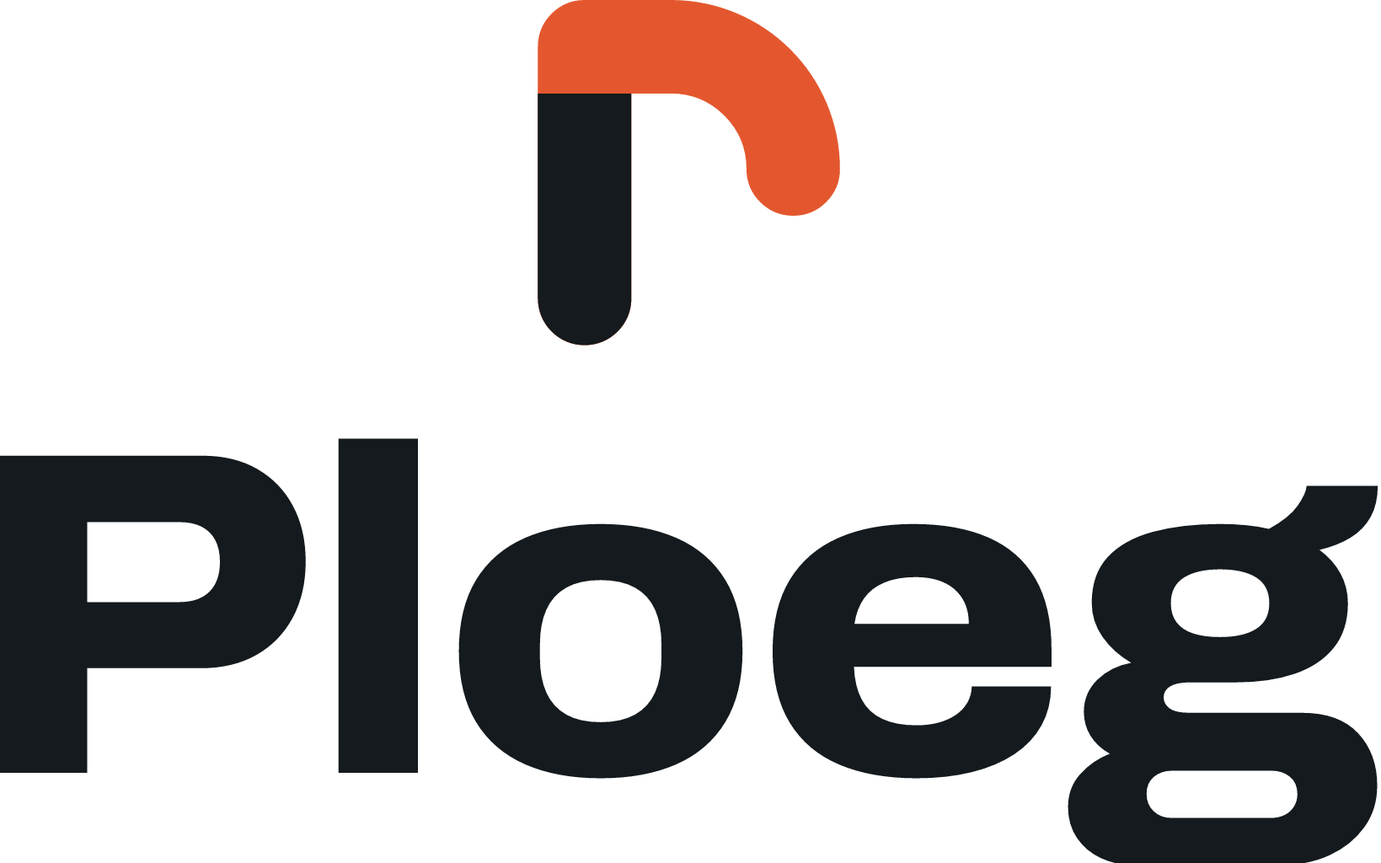
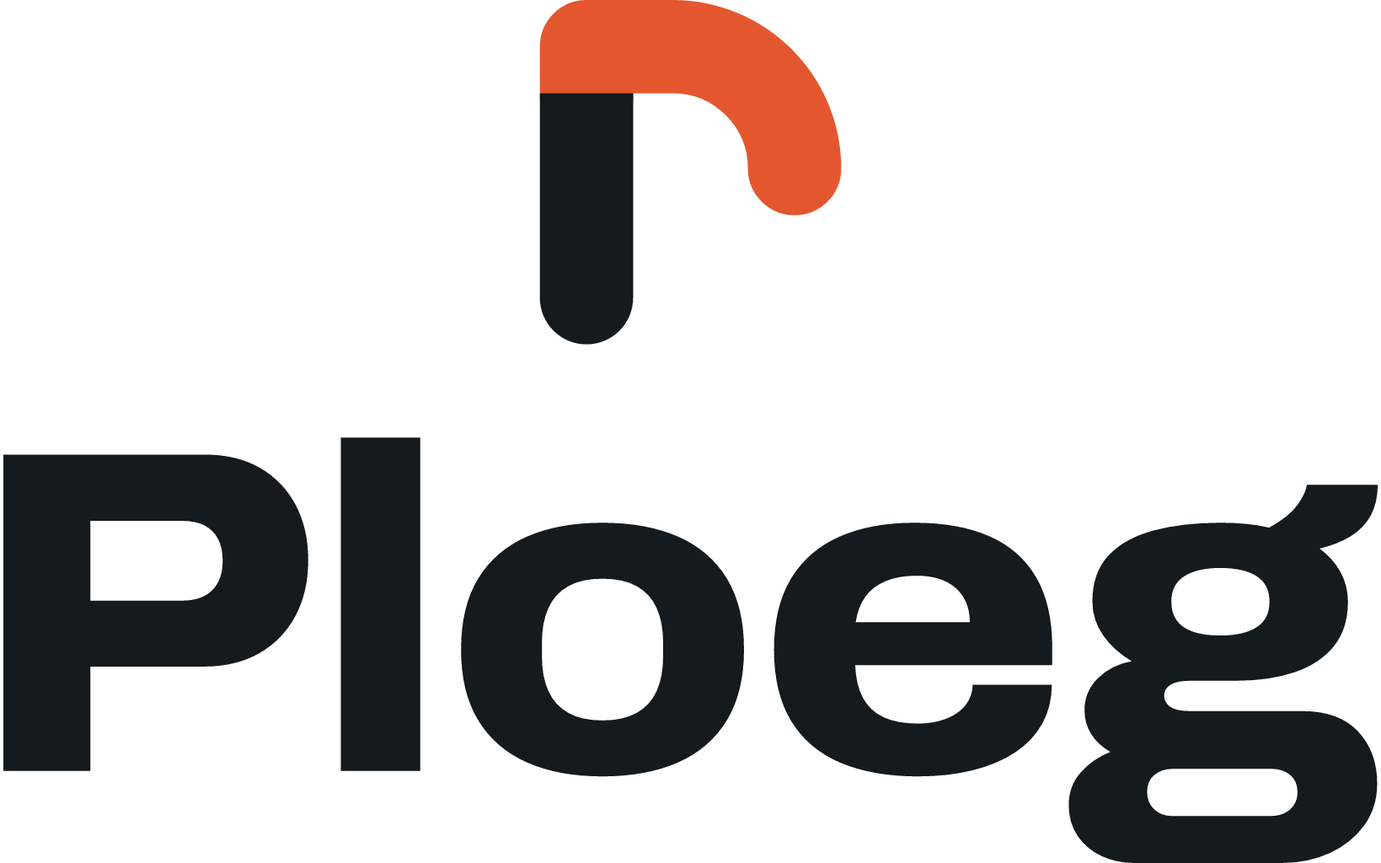
fix(brand): clip the Klei under the steel so it can't bleed through the edges
The two-tone build draws the full silhouette in Klei and lays the steel
over it, so hidden orange sat flush against the steel's outline. Wherever
that outline is anti-aliased — the bottom cap in the pixel-aligned
exports, the entire stem at arbitrary render sizes — edge pixels mixed
steel with the orange underneath, an orange zweem on the silhouette.

An evenodd clipPath on the Klei stroke now removes everything under the
steel except a one-unit strip below the naad, which keeps the seam
covered without letting hidden orange reach any anti-aliased edge. Same
knip on the favicon and tile geometries; geometry itself is untouched.
Applied to all nine two-tone SVGs and the marks inlined in merkgids,
documented in the construction notes, PNGs re-rendered with resvg.

Verified by pixel scan: zero mixed pixels off the naad in every export,
including odd-size renders where nothing is pixel-aligned.

diff --git a/docs/brand/merkgids.html b/docs/brand/merkgids.html
@@ -155,6 +155,11 @@ button:focus-visible { outline:2px solid var(--accent); outline-offset:2px; }
 </style>
 </head>
 <body>
+<svg width="0" height="0" style="position:absolute" aria-hidden="true" focusable="false"><defs>
+<clipPath id="knip-mark"><path clip-rule="evenodd" d="M-8 -8H72V72H-8ZM10 22H25V57H10Z"/></clipPath>
+<clipPath id="knip-favicon"><path clip-rule="evenodd" d="M-8 -8H72V72H-8ZM7 19H23V61H7Z"/></clipPath>
+<clipPath id="knip-tegel"><path clip-rule="evenodd" d="M-8 -8H72V72H-8ZM13 24H26V53H13Z"/></clipPath>
+</defs></svg>
 <div class="wrap">
   <header class="mast">
     <p class="eyebrow">Ploeg · merkidentiteit · v1</p>
@@ -163,14 +168,14 @@ button:focus-visible { outline:2px solid var(--accent); outline-offset:2px; }
     <div class="hero">
       <div class="lite"><svg xmlns="http://www.w3.org/2000/svg" viewBox="0 0 246.55 60.84" fill="none" role="img" aria-hidden="true" focusable="false">
 <g transform="translate(-11 -8)">
-<path d="M17.5 49.5V14.5H29.5A17 17 0 0 1 46.5 31.5" stroke="#E4572E" stroke-width="13" stroke-linecap="round" stroke-linejoin="round" fill="none"/>
+<path d="M17.5 49.5V14.5H29.5A17 17 0 0 1 46.5 31.5" stroke="#E4572E" stroke-width="13" stroke-linecap="round" stroke-linejoin="round" fill="none" clip-path="url(#knip-mark)"/>
 <path d="M11 21H24V49.5A6.5 6.5 0 0 1 11 49.5Z" fill="#141A1D"/>
 </g>
 <g transform="translate(55.00 48.00) scale(0.44000)"><path d="M0 0V-100.19H63.98Q74.04 -100.19 81.33 -95.97Q88.63 -91.75 92.61 -84.25Q96.59 -76.75 96.59 -66.75Q96.59 -56.65 92.52 -49.05Q88.44 -41.44 81.04 -37.24Q73.64 -33.04 63.59 -33.04H27.57V0ZM27.57 -53.93H56.61Q62.9 -53.93 66.19 -57.23Q69.49 -60.53 69.49 -66.6Q69.49 -70.72 68.03 -73.49Q66.58 -76.27 63.74 -77.74Q60.9 -79.21 56.61 -79.21H27.57ZM106.94 0V-105.58H132.05V0ZM189.78 1.75Q175.93 1.75 165.89 -2.67Q155.85 -7.09 150.42 -16.02Q144.99 -24.95 144.99 -38.44Q144.99 -52.05 150.42 -60.94Q155.85 -69.83 165.89 -74.22Q175.93 -78.61 189.78 -78.61Q203.68 -78.61 213.72 -74.22Q223.76 -69.83 229.19 -60.94Q234.62 -52.05 234.62 -38.44Q234.62 -24.95 229.19 -16.02Q223.76 -7.09 213.72 -2.67Q203.68 1.75 189.78 1.75ZM189.78 -15.98Q196.4 -15.98 200.67 -18.39Q204.94 -20.8 206.97 -25.33Q209 -29.87 209 -36.2V-40.64Q209 -47 206.97 -51.54Q204.94 -56.09 200.67 -58.49Q196.4 -60.88 189.78 -60.88Q183.16 -60.88 178.91 -58.49Q174.67 -56.09 172.64 -51.54Q170.61 -47 170.61 -40.64V-36.2Q170.61 -29.87 172.64 -25.33Q174.67 -20.8 178.91 -18.39Q183.16 -15.98 189.78 -15.98ZM289.63 1.75Q275.47 1.75 265.26 -2.54Q255.06 -6.82 249.59 -15.73Q244.12 -24.64 244.12 -38.42Q244.12 -52.03 249.52 -60.93Q254.92 -69.83 264.89 -74.22Q274.87 -78.61 288.61 -78.61Q302.57 -78.61 312.32 -74.34Q322.07 -70.07 327.16 -61.32Q332.25 -52.58 332.25 -39.03V-33.49H269.84Q270.06 -27.35 272.25 -23.2Q274.43 -19.05 278.78 -17.02Q283.13 -14.99 289.65 -14.99Q293.39 -14.99 296.55 -15.84Q299.7 -16.69 302.03 -18.29Q304.36 -19.88 305.67 -22.16Q306.98 -24.43 307.06 -27.28H332.11Q332.11 -20.4 329.1 -14.98Q326.1 -9.56 320.5 -5.85Q314.9 -2.13 307.07 -0.19Q299.25 1.75 289.63 1.75ZM270 -47.08H306.13Q306.13 -50.7 304.93 -53.44Q303.73 -56.18 301.52 -58.06Q299.3 -59.95 296.22 -60.89Q293.14 -61.83 289.36 -61.83Q283.49 -61.83 279.38 -60.09Q275.27 -58.35 272.98 -55.06Q270.68 -51.77 270 -47.08ZM358 29.17Q352.56 29.17 347.86 26.98Q343.15 24.79 340.31 20.64Q337.47 16.49 337.47 10.79Q337.47 4.71 341.34 0.41Q345.2 -3.89 350.67 -6.01Q346.71 -8.23 344.59 -11.65Q342.47 -15.07 342.47 -19.23Q342.47 -25.2 346.75 -29.4Q351.03 -33.59 357.43 -34.75Q351.87 -37.98 348.41 -42.88Q344.96 -47.77 344.96 -53.67Q344.96 -62.75 350.06 -68.22Q355.16 -73.68 364.31 -76.14Q373.46 -78.61 385.49 -78.61Q390.04 -78.61 393.87 -78.22Q397.71 -77.84 400.94 -77.06Q407.39 -80.57 410.04 -84.41Q412.7 -88.25 412.87 -90.63H435.35Q435.32 -84.86 433.1 -80.85Q430.87 -76.83 426.77 -74.31Q422.67 -71.79 416.93 -70.43Q421.21 -67.28 423.56 -62.98Q425.91 -58.67 425.91 -53.56Q425.91 -45.04 421.45 -39.5Q416.99 -33.96 409.06 -31.26Q401.13 -28.56 390.63 -28.56H376.06Q371.75 -28.56 369.72 -27.28Q367.68 -26.01 367.68 -23.84Q367.68 -21.78 369.52 -20.36Q371.36 -18.94 376.03 -18.94H411.46Q423.13 -18.94 429.15 -12.47Q435.17 -6 435.17 4.04Q435.17 11.61 431.08 17.25Q427 22.89 420.18 26.03Q413.35 29.17 405.03 29.17ZM370.19 14.29H401.57Q403.95 14.29 405.84 13.38Q407.72 12.47 408.83 10.73Q409.94 9 409.94 6.76Q409.94 3.2 407.59 1.28Q405.23 -0.64 401.89 -0.64H370.32Q366.91 -0.64 364.6 1.29Q362.29 3.22 362.29 6.65Q362.29 10.08 364.54 12.18Q366.79 14.29 370.19 14.29ZM385.46 -42.88Q392.91 -42.88 396.98 -45.5Q401.06 -48.11 401.06 -53.59Q401.06 -59.07 396.98 -61.68Q392.91 -64.28 385.46 -64.28Q378.24 -64.28 374.1 -61.68Q369.96 -59.07 369.96 -53.59Q369.96 -49.95 371.76 -47.54Q373.57 -45.13 377.04 -44.01Q380.51 -42.88 385.46 -42.88Z" fill="#141A1D"/></g>
 </svg></div>
       <div class="dark"><svg xmlns="http://www.w3.org/2000/svg" viewBox="0 0 246.55 60.84" fill="none" role="img" aria-hidden="true" focusable="false">
 <g transform="translate(-11 -8)">
-<path d="M17.5 49.5V14.5H29.5A17 17 0 0 1 46.5 31.5" stroke="#E4572E" stroke-width="13" stroke-linecap="round" stroke-linejoin="round" fill="none"/>
+<path d="M17.5 49.5V14.5H29.5A17 17 0 0 1 46.5 31.5" stroke="#E4572E" stroke-width="13" stroke-linecap="round" stroke-linejoin="round" fill="none" clip-path="url(#knip-mark)"/>
 <path d="M11 21H24V49.5A6.5 6.5 0 0 1 11 49.5Z" fill="#FFFFFF"/>
 </g>
 <g transform="translate(55.00 48.00) scale(0.44000)"><path d="M0 0V-100.19H63.98Q74.04 -100.19 81.33 -95.97Q88.63 -91.75 92.61 -84.25Q96.59 -76.75 96.59 -66.75Q96.59 -56.65 92.52 -49.05Q88.44 -41.44 81.04 -37.24Q73.64 -33.04 63.59 -33.04H27.57V0ZM27.57 -53.93H56.61Q62.9 -53.93 66.19 -57.23Q69.49 -60.53 69.49 -66.6Q69.49 -70.72 68.03 -73.49Q66.58 -76.27 63.74 -77.74Q60.9 -79.21 56.61 -79.21H27.57ZM106.94 0V-105.58H132.05V0ZM189.78 1.75Q175.93 1.75 165.89 -2.67Q155.85 -7.09 150.42 -16.02Q144.99 -24.95 144.99 -38.44Q144.99 -52.05 150.42 -60.94Q155.85 -69.83 165.89 -74.22Q175.93 -78.61 189.78 -78.61Q203.68 -78.61 213.72 -74.22Q223.76 -69.83 229.19 -60.94Q234.62 -52.05 234.62 -38.44Q234.62 -24.95 229.19 -16.02Q223.76 -7.09 213.72 -2.67Q203.68 1.75 189.78 1.75ZM189.78 -15.98Q196.4 -15.98 200.67 -18.39Q204.94 -20.8 206.97 -25.33Q209 -29.87 209 -36.2V-40.64Q209 -47 206.97 -51.54Q204.94 -56.09 200.67 -58.49Q196.4 -60.88 189.78 -60.88Q183.16 -60.88 178.91 -58.49Q174.67 -56.09 172.64 -51.54Q170.61 -47 170.61 -40.64V-36.2Q170.61 -29.87 172.64 -25.33Q174.67 -20.8 178.91 -18.39Q183.16 -15.98 189.78 -15.98ZM289.63 1.75Q275.47 1.75 265.26 -2.54Q255.06 -6.82 249.59 -15.73Q244.12 -24.64 244.12 -38.42Q244.12 -52.03 249.52 -60.93Q254.92 -69.83 264.89 -74.22Q274.87 -78.61 288.61 -78.61Q302.57 -78.61 312.32 -74.34Q322.07 -70.07 327.16 -61.32Q332.25 -52.58 332.25 -39.03V-33.49H269.84Q270.06 -27.35 272.25 -23.2Q274.43 -19.05 278.78 -17.02Q283.13 -14.99 289.65 -14.99Q293.39 -14.99 296.55 -15.84Q299.7 -16.69 302.03 -18.29Q304.36 -19.88 305.67 -22.16Q306.98 -24.43 307.06 -27.28H332.11Q332.11 -20.4 329.1 -14.98Q326.1 -9.56 320.5 -5.85Q314.9 -2.13 307.07 -0.19Q299.25 1.75 289.63 1.75ZM270 -47.08H306.13Q306.13 -50.7 304.93 -53.44Q303.73 -56.18 301.52 -58.06Q299.3 -59.95 296.22 -60.89Q293.14 -61.83 289.36 -61.83Q283.49 -61.83 279.38 -60.09Q275.27 -58.35 272.98 -55.06Q270.68 -51.77 270 -47.08ZM358 29.17Q352.56 29.17 347.86 26.98Q343.15 24.79 340.31 20.64Q337.47 16.49 337.47 10.79Q337.47 4.71 341.34 0.41Q345.2 -3.89 350.67 -6.01Q346.71 -8.23 344.59 -11.65Q342.47 -15.07 342.47 -19.23Q342.47 -25.2 346.75 -29.4Q351.03 -33.59 357.43 -34.75Q351.87 -37.98 348.41 -42.88Q344.96 -47.77 344.96 -53.67Q344.96 -62.75 350.06 -68.22Q355.16 -73.68 364.31 -76.14Q373.46 -78.61 385.49 -78.61Q390.04 -78.61 393.87 -78.22Q397.71 -77.84 400.94 -77.06Q407.39 -80.57 410.04 -84.41Q412.7 -88.25 412.87 -90.63H435.35Q435.32 -84.86 433.1 -80.85Q430.87 -76.83 426.77 -74.31Q422.67 -71.79 416.93 -70.43Q421.21 -67.28 423.56 -62.98Q425.91 -58.67 425.91 -53.56Q425.91 -45.04 421.45 -39.5Q416.99 -33.96 409.06 -31.26Q401.13 -28.56 390.63 -28.56H376.06Q371.75 -28.56 369.72 -27.28Q367.68 -26.01 367.68 -23.84Q367.68 -21.78 369.52 -20.36Q371.36 -18.94 376.03 -18.94H411.46Q423.13 -18.94 429.15 -12.47Q435.17 -6 435.17 4.04Q435.17 11.61 431.08 17.25Q427 22.89 420.18 26.03Q413.35 29.17 405.03 29.17ZM370.19 14.29H401.57Q403.95 14.29 405.84 13.38Q407.72 12.47 408.83 10.73Q409.94 9 409.94 6.76Q409.94 3.2 407.59 1.28Q405.23 -0.64 401.89 -0.64H370.32Q366.91 -0.64 364.6 1.29Q362.29 3.22 362.29 6.65Q362.29 10.08 364.54 12.18Q366.79 14.29 370.19 14.29ZM385.46 -42.88Q392.91 -42.88 396.98 -45.5Q401.06 -48.11 401.06 -53.59Q401.06 -59.07 396.98 -61.68Q392.91 -64.28 385.46 -64.28Q378.24 -64.28 374.1 -61.68Q369.96 -59.07 369.96 -53.59Q369.96 -49.95 371.76 -47.54Q373.57 -45.13 377.04 -44.01Q380.51 -42.88 385.46 -42.88Z" fill="#FFFFFF"/></g>
@@ -184,7 +189,7 @@ button:focus-visible { outline:2px solid var(--accent); outline-offset:2px; }
       <p>De vorm is opzettelijk <b>open</b>: hij sluit niet terug naar de steel zoals een echte P. Daarmee blijft hij een werktuig en wordt hij nooit helemaal een letter. Alles is afgeleid van één maat — de streekbreedte.</p></div>
     <div class="markgrid">
       <div class="panel"><h3>Master</h3><svg class="big" xmlns="http://www.w3.org/2000/svg" viewBox="0 0 64 64" fill="none" role="img" aria-hidden="true" focusable="false">
-<path d="M17.5 49.5V14.5H29.5A17 17 0 0 1 46.5 31.5" stroke="#E4572E" stroke-width="13" stroke-linecap="round" stroke-linejoin="round" fill="none"/>
+<path d="M17.5 49.5V14.5H29.5A17 17 0 0 1 46.5 31.5" stroke="#E4572E" stroke-width="13" stroke-linecap="round" stroke-linejoin="round" fill="none" clip-path="url(#knip-mark)"/>
 <path d="M11 21H24V49.5A6.5 6.5 0 0 1 11 49.5Z" fill="#141A1D"/>
 </svg></div>
       <div class="panel"><h3>Constructie</h3><svg viewBox="0 0 64 64" aria-hidden="true" class="draw">
@@ -227,7 +232,9 @@ button:focus-visible { outline:2px solid var(--accent); outline-offset:2px; }
         <p style="font-size:14.5px;margin:0 0 11px"><b>42 × 48.</b> Optisch vierkant zou te breed staan; dit is de verhouding van een kapitaal.</p>
         <p style="font-size:14.5px;margin:0"><b>Binnenstraal 10.5.</b> Ruim genoeg dat de tegenvorm niet dichtslibt op 16 px.</p>
         <pre>silhouet  M17.5 49.5V14.5H29.5A17 17 0 0 1 46.5 31.5
-steel     M11 21H24V49.5A6.5 6.5 0 0 1 11 49.5Z</pre>
+steel     M11 21H24V49.5A6.5 6.5 0 0 1 11 49.5Z
+knip      clipPath op het silhouet, evenodd:
+          M-8 -8H72V72H-8Z M10 22H25V57H10Z</pre>
       </div>
     </div>
     <div class="panel" style="margin-top:16px">
@@ -241,7 +248,7 @@ steel     M11 21H24V49.5A6.5 6.5 0 0 1 11 49.5Z</pre>
     <text x="0" y="70" font-family="ui-monospace,monospace" font-size="5"
           fill="#C0431F">fout — gebogen naad</text>
   </g>
-  <g transform="translate(80 2)"><path d="M17.5 49.5V14.5H29.5A17 17 0 0 1 46.5 31.5" stroke="#E4572E" stroke-width="13" stroke-linecap="round" stroke-linejoin="round" fill="none"/><path d="M11 21H24V49.5A6.5 6.5 0 0 1 11 49.5Z" fill="currentColor"/>
+  <g transform="translate(80 2)"><path d="M17.5 49.5V14.5H29.5A17 17 0 0 1 46.5 31.5" stroke="#E4572E" stroke-width="13" stroke-linecap="round" stroke-linejoin="round" fill="none" clip-path="url(#knip-mark)"/><path d="M11 21H24V49.5A6.5 6.5 0 0 1 11 49.5Z" fill="currentColor"/>
     <text x="0" y="70" font-family="ui-monospace,monospace" font-size="5"
           fill="currentColor" opacity=".65">goed — naad recht</text>
   </g>
@@ -249,6 +256,7 @@ steel     M11 21H24V49.5A6.5 6.5 0 0 1 11 49.5Z</pre>
         <div>
           <p style="font-size:15px;margin:0 0 12px">Twee streken met een ronde kap op hetzelfde beginpunt geven een <b>gebogen kleurnaad</b>: links zwiept het accent in een boog naar beneden tot (11, 14.5), rechts eindigt het vlak op y=21. Dat leest als een pil die op de steel ligt, niet als één werktuig.</p>
           <p style="font-size:15px;margin:0 0 12px">De fix: trek het <b>hele silhouet</b> in accent en leg de steel er als gevuld vlak overheen. De naad is dan een rechte lijn op y=21, van x=11 tot x=24, en het buitensilhouet komt uit één pad.</p>
+          <p style="font-size:15px;margin:0 0 12px">Eén gevolg vraagt een tegenmaatregel: de Klei die onder de steel doorloopt schemert bij het renderen door elke rand van de steel heen — anti-aliasing mengt randpixels met wat eronder ligt, en dat geeft een oranje zweem langs de steel. Daarom knipt een <code style="font-family:var(--mono);font-size:12.5px">clipPath</code> het verborgen deel van het silhouet weg, op een strook van één eenheid onder de naad na, die de naad zelf blijft afdekken.</p>
           <p style="font-size:14px;margin:0;color:var(--zacht)"><code style="font-family:var(--mono);font-size:12.5px">fill="none"</code> staat expliciet op elk stroke-pad, niet alleen op het <code style="font-family:var(--mono);font-size:12.5px">&lt;svg&gt;</code>. Wie een pad los kopieert krijgt anders een zwart vlak.</p>
         </div>
       </div>
@@ -387,39 +395,39 @@ steel     M11 21H24V49.5A6.5 6.5 0 0 1 11 49.5Z</pre>
     <div class="locks">
       <div class="lockcell on-kalk"><div><svg xmlns="http://www.w3.org/2000/svg" viewBox="0 0 246.55 60.84" fill="none" role="img" aria-hidden="true" focusable="false">
 <g transform="translate(-11 -8)">
-<path d="M17.5 49.5V14.5H29.5A17 17 0 0 1 46.5 31.5" stroke="#E4572E" stroke-width="13" stroke-linecap="round" stroke-linejoin="round" fill="none"/>
+<path d="M17.5 49.5V14.5H29.5A17 17 0 0 1 46.5 31.5" stroke="#E4572E" stroke-width="13" stroke-linecap="round" stroke-linejoin="round" fill="none" clip-path="url(#knip-mark)"/>
 <path d="M11 21H24V49.5A6.5 6.5 0 0 1 11 49.5Z" fill="#141A1D"/>
 </g>
 <g transform="translate(55.00 48.00) scale(0.44000)"><path d="M0 0V-100.19H63.98Q74.04 -100.19 81.33 -95.97Q88.63 -91.75 92.61 -84.25Q96.59 -76.75 96.59 -66.75Q96.59 -56.65 92.52 -49.05Q88.44 -41.44 81.04 -37.24Q73.64 -33.04 63.59 -33.04H27.57V0ZM27.57 -53.93H56.61Q62.9 -53.93 66.19 -57.23Q69.49 -60.53 69.49 -66.6Q69.49 -70.72 68.03 -73.49Q66.58 -76.27 63.74 -77.74Q60.9 -79.21 56.61 -79.21H27.57ZM106.94 0V-105.58H132.05V0ZM189.78 1.75Q175.93 1.75 165.89 -2.67Q155.85 -7.09 150.42 -16.02Q144.99 -24.95 144.99 -38.44Q144.99 -52.05 150.42 -60.94Q155.85 -69.83 165.89 -74.22Q175.93 -78.61 189.78 -78.61Q203.68 -78.61 213.72 -74.22Q223.76 -69.83 229.19 -60.94Q234.62 -52.05 234.62 -38.44Q234.62 -24.95 229.19 -16.02Q223.76 -7.09 213.72 -2.67Q203.68 1.75 189.78 1.75ZM189.78 -15.98Q196.4 -15.98 200.67 -18.39Q204.94 -20.8 206.97 -25.33Q209 -29.87 209 -36.2V-40.64Q209 -47 206.97 -51.54Q204.94 -56.09 200.67 -58.49Q196.4 -60.88 189.78 -60.88Q183.16 -60.88 178.91 -58.49Q174.67 -56.09 172.64 -51.54Q170.61 -47 170.61 -40.64V-36.2Q170.61 -29.87 172.64 -25.33Q174.67 -20.8 178.91 -18.39Q183.16 -15.98 189.78 -15.98ZM289.63 1.75Q275.47 1.75 265.26 -2.54Q255.06 -6.82 249.59 -15.73Q244.12 -24.64 244.12 -38.42Q244.12 -52.03 249.52 -60.93Q254.92 -69.83 264.89 -74.22Q274.87 -78.61 288.61 -78.61Q302.57 -78.61 312.32 -74.34Q322.07 -70.07 327.16 -61.32Q332.25 -52.58 332.25 -39.03V-33.49H269.84Q270.06 -27.35 272.25 -23.2Q274.43 -19.05 278.78 -17.02Q283.13 -14.99 289.65 -14.99Q293.39 -14.99 296.55 -15.84Q299.7 -16.69 302.03 -18.29Q304.36 -19.88 305.67 -22.16Q306.98 -24.43 307.06 -27.28H332.11Q332.11 -20.4 329.1 -14.98Q326.1 -9.56 320.5 -5.85Q314.9 -2.13 307.07 -0.19Q299.25 1.75 289.63 1.75ZM270 -47.08H306.13Q306.13 -50.7 304.93 -53.44Q303.73 -56.18 301.52 -58.06Q299.3 -59.95 296.22 -60.89Q293.14 -61.83 289.36 -61.83Q283.49 -61.83 279.38 -60.09Q275.27 -58.35 272.98 -55.06Q270.68 -51.77 270 -47.08ZM358 29.17Q352.56 29.17 347.86 26.98Q343.15 24.79 340.31 20.64Q337.47 16.49 337.47 10.79Q337.47 4.71 341.34 0.41Q345.2 -3.89 350.67 -6.01Q346.71 -8.23 344.59 -11.65Q342.47 -15.07 342.47 -19.23Q342.47 -25.2 346.75 -29.4Q351.03 -33.59 357.43 -34.75Q351.87 -37.98 348.41 -42.88Q344.96 -47.77 344.96 -53.67Q344.96 -62.75 350.06 -68.22Q355.16 -73.68 364.31 -76.14Q373.46 -78.61 385.49 -78.61Q390.04 -78.61 393.87 -78.22Q397.71 -77.84 400.94 -77.06Q407.39 -80.57 410.04 -84.41Q412.7 -88.25 412.87 -90.63H435.35Q435.32 -84.86 433.1 -80.85Q430.87 -76.83 426.77 -74.31Q422.67 -71.79 416.93 -70.43Q421.21 -67.28 423.56 -62.98Q425.91 -58.67 425.91 -53.56Q425.91 -45.04 421.45 -39.5Q416.99 -33.96 409.06 -31.26Q401.13 -28.56 390.63 -28.56H376.06Q371.75 -28.56 369.72 -27.28Q367.68 -26.01 367.68 -23.84Q367.68 -21.78 369.52 -20.36Q371.36 -18.94 376.03 -18.94H411.46Q423.13 -18.94 429.15 -12.47Q435.17 -6 435.17 4.04Q435.17 11.61 431.08 17.25Q427 22.89 420.18 26.03Q413.35 29.17 405.03 29.17ZM370.19 14.29H401.57Q403.95 14.29 405.84 13.38Q407.72 12.47 408.83 10.73Q409.94 9 409.94 6.76Q409.94 3.2 407.59 1.28Q405.23 -0.64 401.89 -0.64H370.32Q366.91 -0.64 364.6 1.29Q362.29 3.22 362.29 6.65Q362.29 10.08 364.54 12.18Q366.79 14.29 370.19 14.29ZM385.46 -42.88Q392.91 -42.88 396.98 -45.5Q401.06 -48.11 401.06 -53.59Q401.06 -59.07 396.98 -61.68Q392.91 -64.28 385.46 -64.28Q378.24 -64.28 374.1 -61.68Q369.96 -59.07 369.96 -53.59Q369.96 -49.95 371.76 -47.54Q373.57 -45.13 377.04 -44.01Q380.51 -42.88 385.46 -42.88Z" fill="#141A1D"/></g>
 </svg><div class="cap">lockup-horizontal</div></div></div>
       <div class="lockcell on-nacht"><div><svg xmlns="http://www.w3.org/2000/svg" viewBox="0 0 246.55 60.84" fill="none" role="img" aria-hidden="true" focusable="false">
 <g transform="translate(-11 -8)">
-<path d="M17.5 49.5V14.5H29.5A17 17 0 0 1 46.5 31.5" stroke="#E4572E" stroke-width="13" stroke-linecap="round" stroke-linejoin="round" fill="none"/>
+<path d="M17.5 49.5V14.5H29.5A17 17 0 0 1 46.5 31.5" stroke="#E4572E" stroke-width="13" stroke-linecap="round" stroke-linejoin="round" fill="none" clip-path="url(#knip-mark)"/>
 <path d="M11 21H24V49.5A6.5 6.5 0 0 1 11 49.5Z" fill="#FFFFFF"/>
 </g>
 <g transform="translate(55.00 48.00) scale(0.44000)"><path d="M0 0V-100.19H63.98Q74.04 -100.19 81.33 -95.97Q88.63 -91.75 92.61 -84.25Q96.59 -76.75 96.59 -66.75Q96.59 -56.65 92.52 -49.05Q88.44 -41.44 81.04 -37.24Q73.64 -33.04 63.59 -33.04H27.57V0ZM27.57 -53.93H56.61Q62.9 -53.93 66.19 -57.23Q69.49 -60.53 69.49 -66.6Q69.49 -70.72 68.03 -73.49Q66.58 -76.27 63.74 -77.74Q60.9 -79.21 56.61 -79.21H27.57ZM106.94 0V-105.58H132.05V0ZM189.78 1.75Q175.93 1.75 165.89 -2.67Q155.85 -7.09 150.42 -16.02Q144.99 -24.95 144.99 -38.44Q144.99 -52.05 150.42 -60.94Q155.85 -69.83 165.89 -74.22Q175.93 -78.61 189.78 -78.61Q203.68 -78.61 213.72 -74.22Q223.76 -69.83 229.19 -60.94Q234.62 -52.05 234.62 -38.44Q234.62 -24.95 229.19 -16.02Q223.76 -7.09 213.72 -2.67Q203.68 1.75 189.78 1.75ZM189.78 -15.98Q196.4 -15.98 200.67 -18.39Q204.94 -20.8 206.97 -25.33Q209 -29.87 209 -36.2V-40.64Q209 -47 206.97 -51.54Q204.94 -56.09 200.67 -58.49Q196.4 -60.88 189.78 -60.88Q183.16 -60.88 178.91 -58.49Q174.67 -56.09 172.64 -51.54Q170.61 -47 170.61 -40.64V-36.2Q170.61 -29.87 172.64 -25.33Q174.67 -20.8 178.91 -18.39Q183.16 -15.98 189.78 -15.98ZM289.63 1.75Q275.47 1.75 265.26 -2.54Q255.06 -6.82 249.59 -15.73Q244.12 -24.64 244.12 -38.42Q244.12 -52.03 249.52 -60.93Q254.92 -69.83 264.89 -74.22Q274.87 -78.61 288.61 -78.61Q302.57 -78.61 312.32 -74.34Q322.07 -70.07 327.16 -61.32Q332.25 -52.58 332.25 -39.03V-33.49H269.84Q270.06 -27.35 272.25 -23.2Q274.43 -19.05 278.78 -17.02Q283.13 -14.99 289.65 -14.99Q293.39 -14.99 296.55 -15.84Q299.7 -16.69 302.03 -18.29Q304.36 -19.88 305.67 -22.16Q306.98 -24.43 307.06 -27.28H332.11Q332.11 -20.4 329.1 -14.98Q326.1 -9.56 320.5 -5.85Q314.9 -2.13 307.07 -0.19Q299.25 1.75 289.63 1.75ZM270 -47.08H306.13Q306.13 -50.7 304.93 -53.44Q303.73 -56.18 301.52 -58.06Q299.3 -59.95 296.22 -60.89Q293.14 -61.83 289.36 -61.83Q283.49 -61.83 279.38 -60.09Q275.27 -58.35 272.98 -55.06Q270.68 -51.77 270 -47.08ZM358 29.17Q352.56 29.17 347.86 26.98Q343.15 24.79 340.31 20.64Q337.47 16.49 337.47 10.79Q337.47 4.71 341.34 0.41Q345.2 -3.89 350.67 -6.01Q346.71 -8.23 344.59 -11.65Q342.47 -15.07 342.47 -19.23Q342.47 -25.2 346.75 -29.4Q351.03 -33.59 357.43 -34.75Q351.87 -37.98 348.41 -42.88Q344.96 -47.77 344.96 -53.67Q344.96 -62.75 350.06 -68.22Q355.16 -73.68 364.31 -76.14Q373.46 -78.61 385.49 -78.61Q390.04 -78.61 393.87 -78.22Q397.71 -77.84 400.94 -77.06Q407.39 -80.57 410.04 -84.41Q412.7 -88.25 412.87 -90.63H435.35Q435.32 -84.86 433.1 -80.85Q430.87 -76.83 426.77 -74.31Q422.67 -71.79 416.93 -70.43Q421.21 -67.28 423.56 -62.98Q425.91 -58.67 425.91 -53.56Q425.91 -45.04 421.45 -39.5Q416.99 -33.96 409.06 -31.26Q401.13 -28.56 390.63 -28.56H376.06Q371.75 -28.56 369.72 -27.28Q367.68 -26.01 367.68 -23.84Q367.68 -21.78 369.52 -20.36Q371.36 -18.94 376.03 -18.94H411.46Q423.13 -18.94 429.15 -12.47Q435.17 -6 435.17 4.04Q435.17 11.61 431.08 17.25Q427 22.89 420.18 26.03Q413.35 29.17 405.03 29.17ZM370.19 14.29H401.57Q403.95 14.29 405.84 13.38Q407.72 12.47 408.83 10.73Q409.94 9 409.94 6.76Q409.94 3.2 407.59 1.28Q405.23 -0.64 401.89 -0.64H370.32Q366.91 -0.64 364.6 1.29Q362.29 3.22 362.29 6.65Q362.29 10.08 364.54 12.18Q366.79 14.29 370.19 14.29ZM385.46 -42.88Q392.91 -42.88 396.98 -45.5Q401.06 -48.11 401.06 -53.59Q401.06 -59.07 396.98 -61.68Q392.91 -64.28 385.46 -64.28Q378.24 -64.28 374.1 -61.68Q369.96 -59.07 369.96 -53.59Q369.96 -49.95 371.76 -47.54Q373.57 -45.13 377.04 -44.01Q380.51 -42.88 385.46 -42.88Z" fill="#FFFFFF"/></g>
 </svg><div class="cap">-white</div></div></div>
       <div class="lockcell on-kalk"><div style="max-width:150px;margin:0 auto"><svg xmlns="http://www.w3.org/2000/svg" viewBox="0 0 191.55 120.29" fill="none" role="img" aria-hidden="true" focusable="false">
 <g transform="translate(63.78 -8)">
-<path d="M17.5 49.5V14.5H29.5A17 17 0 0 1 46.5 31.5" stroke="#E4572E" stroke-width="13" stroke-linecap="round" stroke-linejoin="round" fill="none"/>
+<path d="M17.5 49.5V14.5H29.5A17 17 0 0 1 46.5 31.5" stroke="#E4572E" stroke-width="13" stroke-linecap="round" stroke-linejoin="round" fill="none" clip-path="url(#knip-mark)"/>
 <path d="M11 21H24V49.5A6.5 6.5 0 0 1 11 49.5Z" fill="#141A1D"/>
 </g>
 <g transform="translate(0.00 107.45) scale(0.44000)"><path d="M0 0V-100.19H63.98Q74.04 -100.19 81.33 -95.97Q88.63 -91.75 92.61 -84.25Q96.59 -76.75 96.59 -66.75Q96.59 -56.65 92.52 -49.05Q88.44 -41.44 81.04 -37.24Q73.64 -33.04 63.59 -33.04H27.57V0ZM27.57 -53.93H56.61Q62.9 -53.93 66.19 -57.23Q69.49 -60.53 69.49 -66.6Q69.49 -70.72 68.03 -73.49Q66.58 -76.27 63.74 -77.74Q60.9 -79.21 56.61 -79.21H27.57ZM106.94 0V-105.58H132.05V0ZM189.78 1.75Q175.93 1.75 165.89 -2.67Q155.85 -7.09 150.42 -16.02Q144.99 -24.95 144.99 -38.44Q144.99 -52.05 150.42 -60.94Q155.85 -69.83 165.89 -74.22Q175.93 -78.61 189.78 -78.61Q203.68 -78.61 213.72 -74.22Q223.76 -69.83 229.19 -60.94Q234.62 -52.05 234.62 -38.44Q234.62 -24.95 229.19 -16.02Q223.76 -7.09 213.72 -2.67Q203.68 1.75 189.78 1.75ZM189.78 -15.98Q196.4 -15.98 200.67 -18.39Q204.94 -20.8 206.97 -25.33Q209 -29.87 209 -36.2V-40.64Q209 -47 206.97 -51.54Q204.94 -56.09 200.67 -58.49Q196.4 -60.88 189.78 -60.88Q183.16 -60.88 178.91 -58.49Q174.67 -56.09 172.64 -51.54Q170.61 -47 170.61 -40.64V-36.2Q170.61 -29.87 172.64 -25.33Q174.67 -20.8 178.91 -18.39Q183.16 -15.98 189.78 -15.98ZM289.63 1.75Q275.47 1.75 265.26 -2.54Q255.06 -6.82 249.59 -15.73Q244.12 -24.64 244.12 -38.42Q244.12 -52.03 249.52 -60.93Q254.92 -69.83 264.89 -74.22Q274.87 -78.61 288.61 -78.61Q302.57 -78.61 312.32 -74.34Q322.07 -70.07 327.16 -61.32Q332.25 -52.58 332.25 -39.03V-33.49H269.84Q270.06 -27.35 272.25 -23.2Q274.43 -19.05 278.78 -17.02Q283.13 -14.99 289.65 -14.99Q293.39 -14.99 296.55 -15.84Q299.7 -16.69 302.03 -18.29Q304.36 -19.88 305.67 -22.16Q306.98 -24.43 307.06 -27.28H332.11Q332.11 -20.4 329.1 -14.98Q326.1 -9.56 320.5 -5.85Q314.9 -2.13 307.07 -0.19Q299.25 1.75 289.63 1.75ZM270 -47.08H306.13Q306.13 -50.7 304.93 -53.44Q303.73 -56.18 301.52 -58.06Q299.3 -59.95 296.22 -60.89Q293.14 -61.83 289.36 -61.83Q283.49 -61.83 279.38 -60.09Q275.27 -58.35 272.98 -55.06Q270.68 -51.77 270 -47.08ZM358 29.17Q352.56 29.17 347.86 26.98Q343.15 24.79 340.31 20.64Q337.47 16.49 337.47 10.79Q337.47 4.71 341.34 0.41Q345.2 -3.89 350.67 -6.01Q346.71 -8.23 344.59 -11.65Q342.47 -15.07 342.47 -19.23Q342.47 -25.2 346.75 -29.4Q351.03 -33.59 357.43 -34.75Q351.87 -37.98 348.41 -42.88Q344.96 -47.77 344.96 -53.67Q344.96 -62.75 350.06 -68.22Q355.16 -73.68 364.31 -76.14Q373.46 -78.61 385.49 -78.61Q390.04 -78.61 393.87 -78.22Q397.71 -77.84 400.94 -77.06Q407.39 -80.57 410.04 -84.41Q412.7 -88.25 412.87 -90.63H435.35Q435.32 -84.86 433.1 -80.85Q430.87 -76.83 426.77 -74.31Q422.67 -71.79 416.93 -70.43Q421.21 -67.28 423.56 -62.98Q425.91 -58.67 425.91 -53.56Q425.91 -45.04 421.45 -39.5Q416.99 -33.96 409.06 -31.26Q401.13 -28.56 390.63 -28.56H376.06Q371.75 -28.56 369.72 -27.28Q367.68 -26.01 367.68 -23.84Q367.68 -21.78 369.52 -20.36Q371.36 -18.94 376.03 -18.94H411.46Q423.13 -18.94 429.15 -12.47Q435.17 -6 435.17 4.04Q435.17 11.61 431.08 17.25Q427 22.89 420.18 26.03Q413.35 29.17 405.03 29.17ZM370.19 14.29H401.57Q403.95 14.29 405.84 13.38Q407.72 12.47 408.83 10.73Q409.94 9 409.94 6.76Q409.94 3.2 407.59 1.28Q405.23 -0.64 401.89 -0.64H370.32Q366.91 -0.64 364.6 1.29Q362.29 3.22 362.29 6.65Q362.29 10.08 364.54 12.18Q366.79 14.29 370.19 14.29ZM385.46 -42.88Q392.91 -42.88 396.98 -45.5Q401.06 -48.11 401.06 -53.59Q401.06 -59.07 396.98 -61.68Q392.91 -64.28 385.46 -64.28Q378.24 -64.28 374.1 -61.68Q369.96 -59.07 369.96 -53.59Q369.96 -49.95 371.76 -47.54Q373.57 -45.13 377.04 -44.01Q380.51 -42.88 385.46 -42.88Z" fill="#141A1D"/></g>
 </svg><div class="cap">lockup-stacked</div></div></div>
       <div class="lockcell on-nacht"><div style="max-width:150px;margin:0 auto"><svg xmlns="http://www.w3.org/2000/svg" viewBox="0 0 191.55 120.29" fill="none" role="img" aria-hidden="true" focusable="false">
 <g transform="translate(63.78 -8)">
-<path d="M17.5 49.5V14.5H29.5A17 17 0 0 1 46.5 31.5" stroke="#E4572E" stroke-width="13" stroke-linecap="round" stroke-linejoin="round" fill="none"/>
+<path d="M17.5 49.5V14.5H29.5A17 17 0 0 1 46.5 31.5" stroke="#E4572E" stroke-width="13" stroke-linecap="round" stroke-linejoin="round" fill="none" clip-path="url(#knip-mark)"/>
 <path d="M11 21H24V49.5A6.5 6.5 0 0 1 11 49.5Z" fill="#FFFFFF"/>
 </g>
 <g transform="translate(0.00 107.45) scale(0.44000)"><path d="M0 0V-100.19H63.98Q74.04 -100.19 81.33 -95.97Q88.63 -91.75 92.61 -84.25Q96.59 -76.75 96.59 -66.75Q96.59 -56.65 92.52 -49.05Q88.44 -41.44 81.04 -37.24Q73.64 -33.04 63.59 -33.04H27.57V0ZM27.57 -53.93H56.61Q62.9 -53.93 66.19 -57.23Q69.49 -60.53 69.49 -66.6Q69.49 -70.72 68.03 -73.49Q66.58 -76.27 63.74 -77.74Q60.9 -79.21 56.61 -79.21H27.57ZM106.94 0V-105.58H132.05V0ZM189.78 1.75Q175.93 1.75 165.89 -2.67Q155.85 -7.09 150.42 -16.02Q144.99 -24.95 144.99 -38.44Q144.99 -52.05 150.42 -60.94Q155.85 -69.83 165.89 -74.22Q175.93 -78.61 189.78 -78.61Q203.68 -78.61 213.72 -74.22Q223.76 -69.83 229.19 -60.94Q234.62 -52.05 234.62 -38.44Q234.62 -24.95 229.19 -16.02Q223.76 -7.09 213.72 -2.67Q203.68 1.75 189.78 1.75ZM189.78 -15.98Q196.4 -15.98 200.67 -18.39Q204.94 -20.8 206.97 -25.33Q209 -29.87 209 -36.2V-40.64Q209 -47 206.97 -51.54Q204.94 -56.09 200.67 -58.49Q196.4 -60.88 189.78 -60.88Q183.16 -60.88 178.91 -58.49Q174.67 -56.09 172.64 -51.54Q170.61 -47 170.61 -40.64V-36.2Q170.61 -29.87 172.64 -25.33Q174.67 -20.8 178.91 -18.39Q183.16 -15.98 189.78 -15.98ZM289.63 1.75Q275.47 1.75 265.26 -2.54Q255.06 -6.82 249.59 -15.73Q244.12 -24.64 244.12 -38.42Q244.12 -52.03 249.52 -60.93Q254.92 -69.83 264.89 -74.22Q274.87 -78.61 288.61 -78.61Q302.57 -78.61 312.32 -74.34Q322.07 -70.07 327.16 -61.32Q332.25 -52.58 332.25 -39.03V-33.49H269.84Q270.06 -27.35 272.25 -23.2Q274.43 -19.05 278.78 -17.02Q283.13 -14.99 289.65 -14.99Q293.39 -14.99 296.55 -15.84Q299.7 -16.69 302.03 -18.29Q304.36 -19.88 305.67 -22.16Q306.98 -24.43 307.06 -27.28H332.11Q332.11 -20.4 329.1 -14.98Q326.1 -9.56 320.5 -5.85Q314.9 -2.13 307.07 -0.19Q299.25 1.75 289.63 1.75ZM270 -47.08H306.13Q306.13 -50.7 304.93 -53.44Q303.73 -56.18 301.52 -58.06Q299.3 -59.95 296.22 -60.89Q293.14 -61.83 289.36 -61.83Q283.49 -61.83 279.38 -60.09Q275.27 -58.35 272.98 -55.06Q270.68 -51.77 270 -47.08ZM358 29.17Q352.56 29.17 347.86 26.98Q343.15 24.79 340.31 20.64Q337.47 16.49 337.47 10.79Q337.47 4.71 341.34 0.41Q345.2 -3.89 350.67 -6.01Q346.71 -8.23 344.59 -11.65Q342.47 -15.07 342.47 -19.23Q342.47 -25.2 346.75 -29.4Q351.03 -33.59 357.43 -34.75Q351.87 -37.98 348.41 -42.88Q344.96 -47.77 344.96 -53.67Q344.96 -62.75 350.06 -68.22Q355.16 -73.68 364.31 -76.14Q373.46 -78.61 385.49 -78.61Q390.04 -78.61 393.87 -78.22Q397.71 -77.84 400.94 -77.06Q407.39 -80.57 410.04 -84.41Q412.7 -88.25 412.87 -90.63H435.35Q435.32 -84.86 433.1 -80.85Q430.87 -76.83 426.77 -74.31Q422.67 -71.79 416.93 -70.43Q421.21 -67.28 423.56 -62.98Q425.91 -58.67 425.91 -53.56Q425.91 -45.04 421.45 -39.5Q416.99 -33.96 409.06 -31.26Q401.13 -28.56 390.63 -28.56H376.06Q371.75 -28.56 369.72 -27.28Q367.68 -26.01 367.68 -23.84Q367.68 -21.78 369.52 -20.36Q371.36 -18.94 376.03 -18.94H411.46Q423.13 -18.94 429.15 -12.47Q435.17 -6 435.17 4.04Q435.17 11.61 431.08 17.25Q427 22.89 420.18 26.03Q413.35 29.17 405.03 29.17ZM370.19 14.29H401.57Q403.95 14.29 405.84 13.38Q407.72 12.47 408.83 10.73Q409.94 9 409.94 6.76Q409.94 3.2 407.59 1.28Q405.23 -0.64 401.89 -0.64H370.32Q366.91 -0.64 364.6 1.29Q362.29 3.22 362.29 6.65Q362.29 10.08 364.54 12.18Q366.79 14.29 370.19 14.29ZM385.46 -42.88Q392.91 -42.88 396.98 -45.5Q401.06 -48.11 401.06 -53.59Q401.06 -59.07 396.98 -61.68Q392.91 -64.28 385.46 -64.28Q378.24 -64.28 374.1 -61.68Q369.96 -59.07 369.96 -53.59Q369.96 -49.95 371.76 -47.54Q373.57 -45.13 377.04 -44.01Q380.51 -42.88 385.46 -42.88Z" fill="#FFFFFF"/></g>
 </svg><div class="cap">-white</div></div></div>
       <div class="lockcell on-kalk markonly"><div><svg xmlns="http://www.w3.org/2000/svg" viewBox="0 0 64 64" fill="none" role="img" aria-hidden="true" focusable="false">
-<path d="M17.5 49.5V14.5H29.5A17 17 0 0 1 46.5 31.5" stroke="#E4572E" stroke-width="13" stroke-linecap="round" stroke-linejoin="round" fill="none"/>
+<path d="M17.5 49.5V14.5H29.5A17 17 0 0 1 46.5 31.5" stroke="#E4572E" stroke-width="13" stroke-linecap="round" stroke-linejoin="round" fill="none" clip-path="url(#knip-mark)"/>
 <path d="M11 21H24V49.5A6.5 6.5 0 0 1 11 49.5Z" fill="#141A1D"/>
 </svg><div class="cap">mark</div></div></div>
       <div class="lockcell on-nacht tile"><div><svg xmlns="http://www.w3.org/2000/svg" viewBox="0 0 64 64" fill="none" role="img" aria-hidden="true" focusable="false">
 <rect width="64" height="64" rx="14" fill="#141A1D"/>
-<path d="M19.5 46.5V17.5H29.5A14 14 0 0 1 43.5 31.5" stroke="#E4572E" stroke-width="11" stroke-linecap="round" stroke-linejoin="round" fill="none"/>
+<path d="M19.5 46.5V17.5H29.5A14 14 0 0 1 43.5 31.5" stroke="#E4572E" stroke-width="11" stroke-linecap="round" stroke-linejoin="round" fill="none" clip-path="url(#knip-tegel)"/>
 <path d="M14 23H25V46.5A5.5 5.5 0 0 1 14 46.5Z" fill="#F4F6F2"/>
 </svg><div class="cap">mark-tile · avatar</div></div></div>
     </div>
@@ -449,45 +457,45 @@ steel     M11 21H24V49.5A6.5 6.5 0 0 1 11 49.5Z</pre>
     <h3 style="font-size:13px;font-weight:700;letter-spacing:.09em;text-transform:uppercase;color:var(--zacht);margin:26px 0 12px">Faviconproef</h3>
     <div class="fav">
       <figure><svg class="f16" xmlns="http://www.w3.org/2000/svg" viewBox="0 0 64 64" fill="none" role="img" aria-hidden="true" focusable="false">
-<path d="M15 53V11H31A19 19 0 0 1 50 30" stroke="#E4572E" stroke-width="14" stroke-linecap="round" stroke-linejoin="round" fill="none"/>
+<path d="M15 53V11H31A19 19 0 0 1 50 30" stroke="#E4572E" stroke-width="14" stroke-linecap="round" stroke-linejoin="round" fill="none" clip-path="url(#knip-favicon)"/>
 <path d="M8 18H22V53A7 7 0 0 1 8 53Z" fill="#141A1D"/>
 </svg><figcaption>16</figcaption></figure>
       <figure><svg class="f24" xmlns="http://www.w3.org/2000/svg" viewBox="0 0 64 64" fill="none" role="img" aria-hidden="true" focusable="false">
-<path d="M15 53V11H31A19 19 0 0 1 50 30" stroke="#E4572E" stroke-width="14" stroke-linecap="round" stroke-linejoin="round" fill="none"/>
+<path d="M15 53V11H31A19 19 0 0 1 50 30" stroke="#E4572E" stroke-width="14" stroke-linecap="round" stroke-linejoin="round" fill="none" clip-path="url(#knip-favicon)"/>
 <path d="M8 18H22V53A7 7 0 0 1 8 53Z" fill="#141A1D"/>
 </svg><figcaption>24</figcaption></figure>
       <figure><svg class="f32" xmlns="http://www.w3.org/2000/svg" viewBox="0 0 64 64" fill="none" role="img" aria-hidden="true" focusable="false">
-<path d="M15 53V11H31A19 19 0 0 1 50 30" stroke="#E4572E" stroke-width="14" stroke-linecap="round" stroke-linejoin="round" fill="none"/>
+<path d="M15 53V11H31A19 19 0 0 1 50 30" stroke="#E4572E" stroke-width="14" stroke-linecap="round" stroke-linejoin="round" fill="none" clip-path="url(#knip-favicon)"/>
 <path d="M8 18H22V53A7 7 0 0 1 8 53Z" fill="#141A1D"/>
 </svg><figcaption>32</figcaption></figure>
       <figure><svg class="f48" xmlns="http://www.w3.org/2000/svg" viewBox="0 0 64 64" fill="none" role="img" aria-hidden="true" focusable="false">
-<path d="M15 53V11H31A19 19 0 0 1 50 30" stroke="#E4572E" stroke-width="14" stroke-linecap="round" stroke-linejoin="round" fill="none"/>
+<path d="M15 53V11H31A19 19 0 0 1 50 30" stroke="#E4572E" stroke-width="14" stroke-linecap="round" stroke-linejoin="round" fill="none" clip-path="url(#knip-favicon)"/>
 <path d="M8 18H22V53A7 7 0 0 1 8 53Z" fill="#141A1D"/>
 </svg><figcaption>48</figcaption></figure>
       <figure><svg class="f16" xmlns="http://www.w3.org/2000/svg" viewBox="0 0 64 64" fill="none" role="img" aria-hidden="true" focusable="false">
-<path d="M17.5 49.5V14.5H29.5A17 17 0 0 1 46.5 31.5" stroke="#E4572E" stroke-width="13" stroke-linecap="round" stroke-linejoin="round" fill="none"/>
+<path d="M17.5 49.5V14.5H29.5A17 17 0 0 1 46.5 31.5" stroke="#E4572E" stroke-width="13" stroke-linecap="round" stroke-linejoin="round" fill="none" clip-path="url(#knip-mark)"/>
 <path d="M11 21H24V49.5A6.5 6.5 0 0 1 11 49.5Z" fill="#141A1D"/>
 </svg><figcaption>16 · master</figcaption></figure>
       <figure><svg class="f32" xmlns="http://www.w3.org/2000/svg" viewBox="0 0 64 64" fill="none" role="img" aria-hidden="true" focusable="false">
-<path d="M17.5 49.5V14.5H29.5A17 17 0 0 1 46.5 31.5" stroke="#E4572E" stroke-width="13" stroke-linecap="round" stroke-linejoin="round" fill="none"/>
+<path d="M17.5 49.5V14.5H29.5A17 17 0 0 1 46.5 31.5" stroke="#E4572E" stroke-width="13" stroke-linecap="round" stroke-linejoin="round" fill="none" clip-path="url(#knip-mark)"/>
 <path d="M11 21H24V49.5A6.5 6.5 0 0 1 11 49.5Z" fill="#141A1D"/>
 </svg><figcaption>32 · master</figcaption></figure>
     </div>
     <div class="fav dark">
       <figure><svg class="f16" xmlns="http://www.w3.org/2000/svg" viewBox="0 0 64 64" fill="none" role="img" aria-hidden="true" focusable="false">
-<path d="M15 53V11H31A19 19 0 0 1 50 30" stroke="#E4572E" stroke-width="14" stroke-linecap="round" stroke-linejoin="round" fill="none"/>
+<path d="M15 53V11H31A19 19 0 0 1 50 30" stroke="#E4572E" stroke-width="14" stroke-linecap="round" stroke-linejoin="round" fill="none" clip-path="url(#knip-favicon)"/>
 <path d="M8 18H22V53A7 7 0 0 1 8 53Z" fill="#FFFFFF"/>
 </svg><figcaption>16</figcaption></figure>
       <figure><svg class="f24" xmlns="http://www.w3.org/2000/svg" viewBox="0 0 64 64" fill="none" role="img" aria-hidden="true" focusable="false">
-<path d="M15 53V11H31A19 19 0 0 1 50 30" stroke="#E4572E" stroke-width="14" stroke-linecap="round" stroke-linejoin="round" fill="none"/>
+<path d="M15 53V11H31A19 19 0 0 1 50 30" stroke="#E4572E" stroke-width="14" stroke-linecap="round" stroke-linejoin="round" fill="none" clip-path="url(#knip-favicon)"/>
 <path d="M8 18H22V53A7 7 0 0 1 8 53Z" fill="#FFFFFF"/>
 </svg><figcaption>24</figcaption></figure>
       <figure><svg class="f32" xmlns="http://www.w3.org/2000/svg" viewBox="0 0 64 64" fill="none" role="img" aria-hidden="true" focusable="false">
-<path d="M15 53V11H31A19 19 0 0 1 50 30" stroke="#E4572E" stroke-width="14" stroke-linecap="round" stroke-linejoin="round" fill="none"/>
+<path d="M15 53V11H31A19 19 0 0 1 50 30" stroke="#E4572E" stroke-width="14" stroke-linecap="round" stroke-linejoin="round" fill="none" clip-path="url(#knip-favicon)"/>
 <path d="M8 18H22V53A7 7 0 0 1 8 53Z" fill="#FFFFFF"/>
 </svg><figcaption>32</figcaption></figure>
       <figure><svg class="f48" xmlns="http://www.w3.org/2000/svg" viewBox="0 0 64 64" fill="none" role="img" aria-hidden="true" focusable="false">
-<path d="M15 53V11H31A19 19 0 0 1 50 30" stroke="#E4572E" stroke-width="14" stroke-linecap="round" stroke-linejoin="round" fill="none"/>
+<path d="M15 53V11H31A19 19 0 0 1 50 30" stroke="#E4572E" stroke-width="14" stroke-linecap="round" stroke-linejoin="round" fill="none" clip-path="url(#knip-favicon)"/>
 <path d="M8 18H22V53A7 7 0 0 1 8 53Z" fill="#FFFFFF"/>
 </svg><figcaption>48</figcaption></figure>
     </div>
@@ -501,13 +509,13 @@ steel     M11 21H24V49.5A6.5 6.5 0 0 1 11 49.5Z</pre>
       <figcaption><b>Kleur omgedraaid</b>De steel draagt, het blad snijdt. Andersom is het betekenisloos.</figcaption></figure><figure class="dont">
       <div class="dont-art"><svg viewBox="0 0 64 64" aria-hidden="true"><path d="M17.5 49.5V14.5H29.5A17 17 0 0 1 29.5 48.5H17.5" stroke="#E4572E" stroke-width="13" stroke-linecap="round" stroke-linejoin="round" fill="none"/><path d="M11 21H24V49.5A6.5 6.5 0 0 1 11 49.5Z" fill="#141A1D"/></svg></div>
       <figcaption><b>Gesloten tot een P</b>Dan is het een letter en geen werktuig meer.</figcaption></figure><figure class="dont">
-      <div class="dont-art"><svg viewBox="0 0 64 64" aria-hidden="true"><g transform="rotate(-32 32 32)"><path d="M17.5 49.5V14.5H29.5A17 17 0 0 1 46.5 31.5" stroke="#E4572E" stroke-width="13" stroke-linecap="round" stroke-linejoin="round" fill="none"/><path d="M11 21H24V49.5A6.5 6.5 0 0 1 11 49.5Z" fill="#141A1D"/></g></svg></div>
+      <div class="dont-art"><svg viewBox="0 0 64 64" aria-hidden="true"><g transform="rotate(-32 32 32)"><path d="M17.5 49.5V14.5H29.5A17 17 0 0 1 46.5 31.5" stroke="#E4572E" stroke-width="13" stroke-linecap="round" stroke-linejoin="round" fill="none" clip-path="url(#knip-mark)"/><path d="M11 21H24V49.5A6.5 6.5 0 0 1 11 49.5Z" fill="#141A1D"/></g></svg></div>
       <figcaption><b>Geroteerd</b>De voor loopt horizontaal. Altijd.</figcaption></figure><figure class="dont">
       <div class="dont-art"><svg viewBox="0 0 64 64" aria-hidden="true"><defs><linearGradient id="g1" x1="0" y1="0" x2="1" y2="1"><stop offset="0" stop-color="#E4572E"/><stop offset="1" stop-color="#7B2FF7"/></linearGradient></defs><path d="M17.5 49.5V14.5H29.5A17 17 0 0 1 46.5 31.5" stroke="url(#g1)" stroke-width="13" stroke-linecap="round" stroke-linejoin="round" fill="none"/><path d="M11 21H24V49.5A6.5 6.5 0 0 1 11 49.5Z" fill="#141A1D"/></svg></div>
       <figcaption><b>Verloop</b>Vlakke kleur. Geen verloop, schaduw of omlijning.</figcaption></figure><figure class="dont">
-      <div class="dont-art"><svg viewBox="0 0 64 64" aria-hidden="true"><rect width="64" height="64" fill="#111619"/><path d="M17.5 49.5V14.5H29.5A17 17 0 0 1 46.5 31.5" stroke="#E4572E" stroke-width="13" stroke-linecap="round" stroke-linejoin="round" fill="none"/><path d="M11 21H24V49.5A6.5 6.5 0 0 1 11 49.5Z" fill="#141A1D"/></svg></div>
+      <div class="dont-art"><svg viewBox="0 0 64 64" aria-hidden="true"><rect width="64" height="64" fill="#111619"/><path d="M17.5 49.5V14.5H29.5A17 17 0 0 1 46.5 31.5" stroke="#E4572E" stroke-width="13" stroke-linecap="round" stroke-linejoin="round" fill="none" clip-path="url(#knip-mark)"/><path d="M11 21H24V49.5A6.5 6.5 0 0 1 11 49.5Z" fill="#141A1D"/></svg></div>
       <figcaption><b>Voor op Nacht</b>1.04:1 — de steel verdwijnt. Gebruik mark-white.svg.</figcaption></figure><figure class="dont">
-      <div class="dont-art"><svg viewBox="0 0 64 64" aria-hidden="true"><g transform="translate(32 32) scale(1.35 .82) translate(-32 -32)"><path d="M17.5 49.5V14.5H29.5A17 17 0 0 1 46.5 31.5" stroke="#E4572E" stroke-width="13" stroke-linecap="round" stroke-linejoin="round" fill="none"/><path d="M11 21H24V49.5A6.5 6.5 0 0 1 11 49.5Z" fill="#141A1D"/></g></svg></div>
+      <div class="dont-art"><svg viewBox="0 0 64 64" aria-hidden="true"><g transform="translate(32 32) scale(1.35 .82) translate(-32 -32)"><path d="M17.5 49.5V14.5H29.5A17 17 0 0 1 46.5 31.5" stroke="#E4572E" stroke-width="13" stroke-linecap="round" stroke-linejoin="round" fill="none" clip-path="url(#knip-mark)"/><path d="M11 21H24V49.5A6.5 6.5 0 0 1 11 49.5Z" fill="#141A1D"/></g></svg></div>
       <figcaption><b>Uitgerekt</b>Schaal het bestand, verander de verhouding niet.</figcaption></figure></div>
   </section>
 

diff --git a/docs/brand/README.md b/docs/brand/README.md
@@ -36,11 +36,21 @@ Alles is afgeleid van één maat: de streekbreedte **w = 13** op een canvas van 
 ```
 silhouet  M17.5 49.5V14.5H29.5A17 17 0 0 1 46.5 31.5
 steel     M11 21H24V49.5A6.5 6.5 0 0 1 11 49.5Z
+knip      clipPath op het silhouet, evenodd: M-8 -8H72V72H-8Z M10 22H25V57H10Z
 ```
 
 Het silhouet is één `stroke` met `stroke-width="13"`, `stroke-linecap="round"`,
 `stroke-linejoin="round"` en **expliciet `fill="none"`**. De steel is een gevuld
 vlak dat er in inkt overheen ligt.
+
+De **knip** hoort bij die bouw. De Klei die onder de steel doorloopt schemert
+bij het renderen door elke rand van de steel heen — anti-aliasing mengt
+randpixels met wat eronder ligt, en dat geeft een oranje zweem langs de steel
+en zijn onderkap. Daarom knipt een `clipPath` het verborgen deel van het
+silhouet weg, op een strook van één eenheid onder de naad na, die de naad zelf
+blijft afdekken. De favicon- en tegelvarianten dragen dezelfde knip op hun
+eigen maten (favicon: x 7–23, y 19–61 · tegel: x 13–26, y 24–53). Wie de mark
+opnieuw opbouwt zonder knip, bouwt de zweem opnieuw in.
 
 Vier besluiten die niet toevallig zijn:
 
